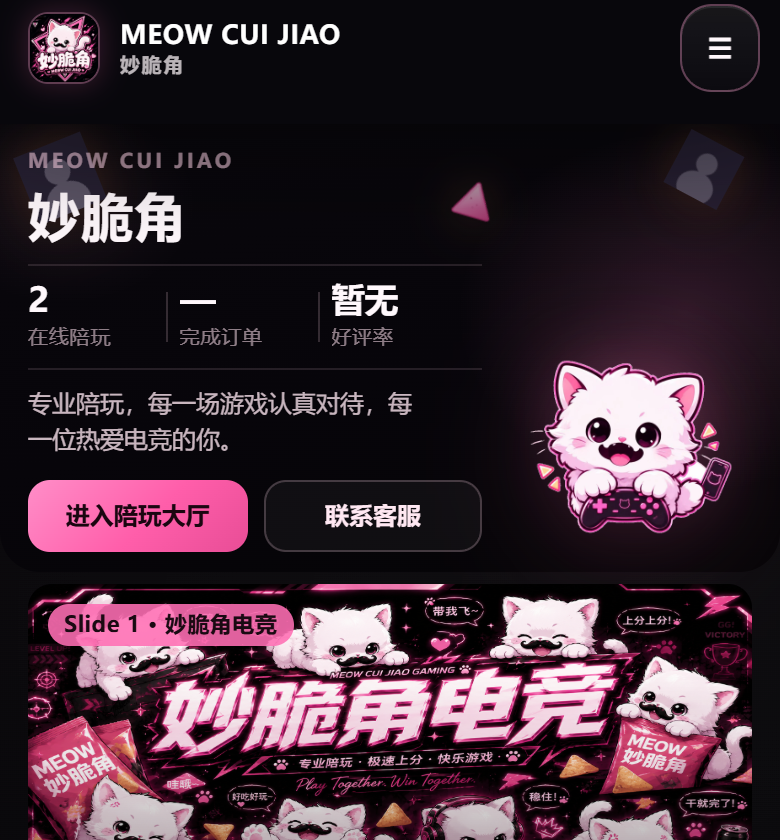
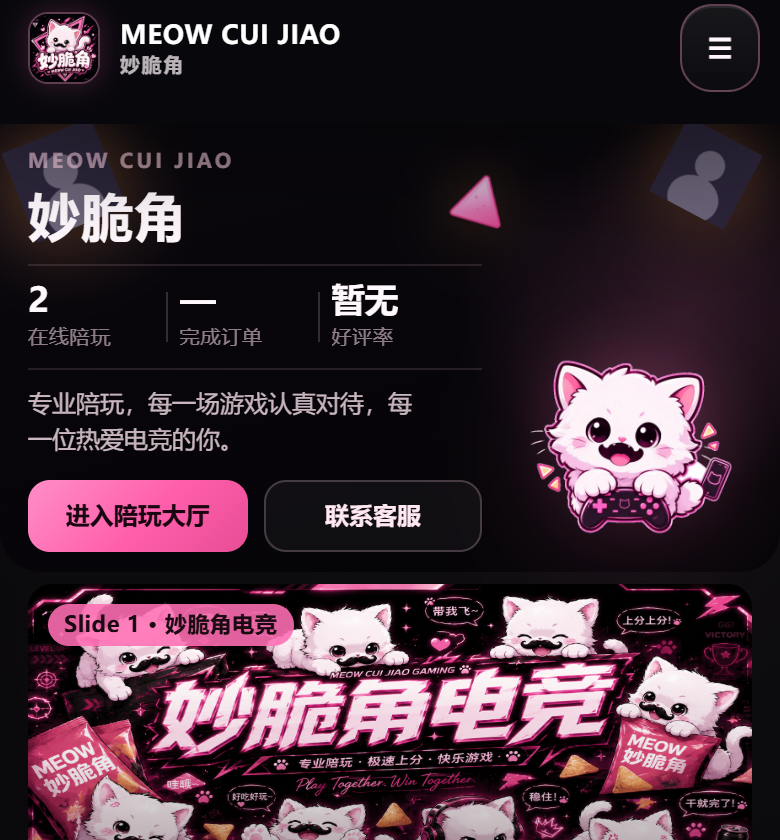
fix(ui): enlarge Hero snack floaters for clear mobile visibility

Changed region(s): [[0.0, 0.1238, 0.1538, 0.2786], [0.8308, 0.1238, 0.9846, 0.2786], [0.5846, 0.1857, 0.6462, 0.2786]]

diff --git a/src/home-brand-hero.css b/src/home-brand-hero.css
@@ -256,11 +256,11 @@
 .mcj-snack {
   position: absolute !important;
   display: block !important;
-  width: clamp(34px, 4.6vw, 58px) !important;
+  width: clamp(40px, 5.2vw, 68px) !important;
   height: auto !important;
   max-width: none !important;
-  opacity: 0.78 !important;
-  filter: drop-shadow(0 6px 12px rgba(0, 0, 0, 0.35)) drop-shadow(0 0 10px rgba(255, 150, 90, 0.28)) !important;
+  opacity: 0.88 !important;
+  filter: drop-shadow(0 8px 14px rgba(0, 0, 0, 0.42)) drop-shadow(0 0 14px rgba(255, 160, 90, 0.38)) brightness(1.08) !important;
   pointer-events: none !important;
   user-select: none !important;
   -webkit-user-drag: none !important;
@@ -268,56 +268,56 @@
 }
 
 .mcj-snack--1 {
-  top: 10% !important;
-  left: 4% !important;
-  width: clamp(40px, 5.2vw, 64px) !important;
+  top: 8% !important;
+  left: 3% !important;
+  width: clamp(48px, 6vw, 72px) !important;
   transform: rotate(-22deg) !important;
-  opacity: 0.82 !important;
+  opacity: 0.92 !important;
   animation: homeBrandSnackFloat 5.6s ease-in-out infinite !important;
 }
 
 .mcj-snack--2 {
-  top: 18% !important;
-  left: 42% !important;
-  width: clamp(28px, 3.6vw, 44px) !important;
-  transform: rotate(16deg) scale(0.92) !important;
-  opacity: 0.62 !important;
+  top: 16% !important;
+  left: 40% !important;
+  width: clamp(34px, 4.2vw, 52px) !important;
+  transform: rotate(16deg) scale(0.95) !important;
+  opacity: 0.78 !important;
   animation: homeBrandSnackFloat 6.4s ease-in-out infinite 0.5s !important;
 }
 
 .mcj-snack--3 {
-  top: 8% !important;
-  right: 18% !important;
-  width: clamp(32px, 4.2vw, 52px) !important;
+  top: 6% !important;
+  right: 16% !important;
+  width: clamp(40px, 5vw, 62px) !important;
   transform: rotate(28deg) !important;
-  opacity: 0.74 !important;
+  opacity: 0.9 !important;
   animation: homeBrandSnackFloat 4.8s ease-in-out infinite 0.9s !important;
 }
 
 .mcj-snack--4 {
-  bottom: 16% !important;
-  left: 18% !important;
-  width: clamp(30px, 3.8vw, 48px) !important;
+  bottom: 14% !important;
+  left: 16% !important;
+  width: clamp(36px, 4.4vw, 56px) !important;
   transform: rotate(-12deg) !important;
-  opacity: 0.7 !important;
+  opacity: 0.84 !important;
   animation: homeBrandSnackFloat 5.2s ease-in-out infinite 1.1s !important;
 }
 
 .mcj-snack--5 {
-  bottom: 22% !important;
-  right: 8% !important;
-  width: clamp(38px, 5vw, 60px) !important;
+  bottom: 18% !important;
+  right: 6% !important;
+  width: clamp(46px, 5.8vw, 70px) !important;
   transform: rotate(8deg) !important;
-  opacity: 0.8 !important;
+  opacity: 0.9 !important;
   animation: homeBrandSnackFloat 6.1s ease-in-out infinite 0.3s !important;
 }
 
 .mcj-snack--6 {
-  top: 46% !important;
-  left: 58% !important;
-  width: clamp(24px, 3.2vw, 38px) !important;
-  transform: rotate(-34deg) scale(0.88) !important;
-  opacity: 0.55 !important;
+  top: 48% !important;
+  left: 56% !important;
+  width: clamp(28px, 3.6vw, 44px) !important;
+  transform: rotate(-34deg) scale(0.9) !important;
+  opacity: 0.68 !important;
   z-index: 0 !important;
   animation: homeBrandSnackFloat 7s ease-in-out infinite 1.4s !important;
 }
@@ -458,27 +458,27 @@
     margin: 0 -2% -2% 0 !important;
   }
 
-  /* iPhone 14 / 390: keep 3 visible snacks, smaller + inset so not crowded */
+  /* iPhone 14 / 390: 3 clearly visible snacks behind copy/mascot */
   .mcj-snack--1 {
-    top: 8% !important;
-    left: 3% !important;
-    width: 36px !important;
-    opacity: 0.8 !important;
+    top: 6% !important;
+    left: 2% !important;
+    width: 48px !important;
+    opacity: 0.92 !important;
   }
 
   .mcj-snack--2 {
-    top: 14% !important;
+    top: 12% !important;
     left: auto !important;
-    right: 36% !important;
-    width: 26px !important;
-    opacity: 0.68 !important;
+    right: 34% !important;
+    width: 34px !important;
+    opacity: 0.82 !important;
   }
 
   .mcj-snack--3 {
-    top: 6% !important;
-    right: 6% !important;
-    width: 30px !important;
-    opacity: 0.76 !important;
+    top: 4% !important;
+    right: 4% !important;
+    width: 42px !important;
+    opacity: 0.9 !important;
   }
 
   .mcj-snack--4,

diff --git a/index.html b/index.html
@@ -3471,7 +3471,7 @@ html,body{width:100%!important;max-width:100%!important;overflow-x:hidden!import
   <link rel="stylesheet" href="src/gameplay-flow.css">
   <link rel="stylesheet" href="src/design-system.css">
   <link rel="stylesheet" href="src/home-banner.css?v=20260910carousel1">
-  <link rel="stylesheet" href="src/home-brand-hero.css?v=20260910snackFloat1">
+  <link rel="stylesheet" href="src/home-brand-hero.css?v=20260910snackFloat2">
   <link rel="stylesheet" href="src/home-banner-promo.css?v=20260910carousel1">
   <link rel="stylesheet" href="src/home-trust-stats.css?v=20260910appProto2">
   <link rel="stylesheet" href="src/home-announcements.css?v=20260910dataRestore1">
@@ -3492,7 +3492,7 @@ html,body{width:100%!important;max-width:100%!important;overflow-x:hidden!import
   <link rel="stylesheet" href="src/boss-header.css?v=20260910appProto1">
   <link rel="stylesheet" href="/src/mcj-safe-area.css?v=20260802mobileP0c">
   <link rel="stylesheet" href="src/home-mobile.css?v=20260910appProto1">
-  <link rel="stylesheet" href="src/home-app-mobile.css?v=20260910snackFloat1">
+  <link rel="stylesheet" href="src/home-app-mobile.css?v=20260910snackFloat2">
   <link rel="stylesheet" href="src/ui-linglu-polish.css?v=20260910linglu1">
 </head>
 <body class="mcj-app-shell">
